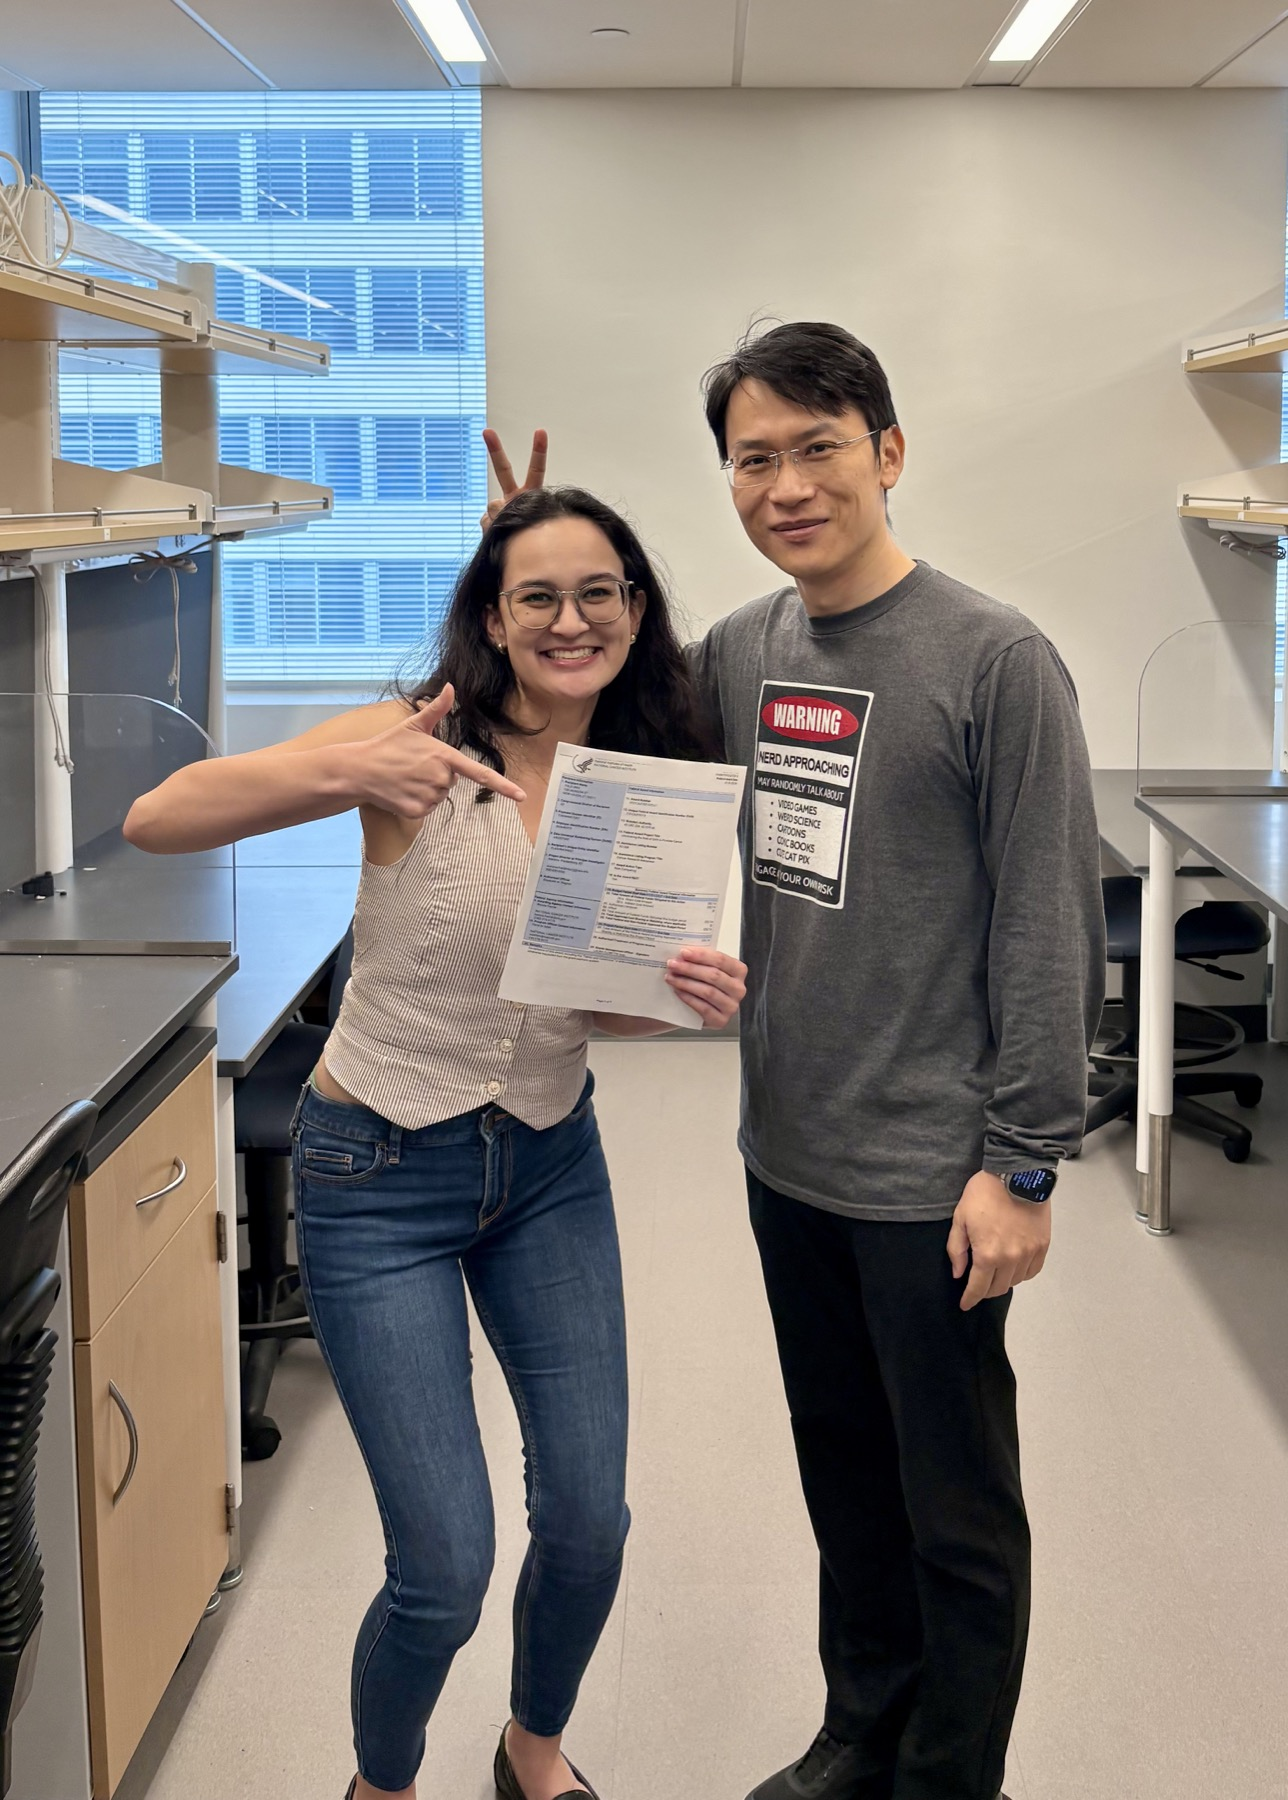
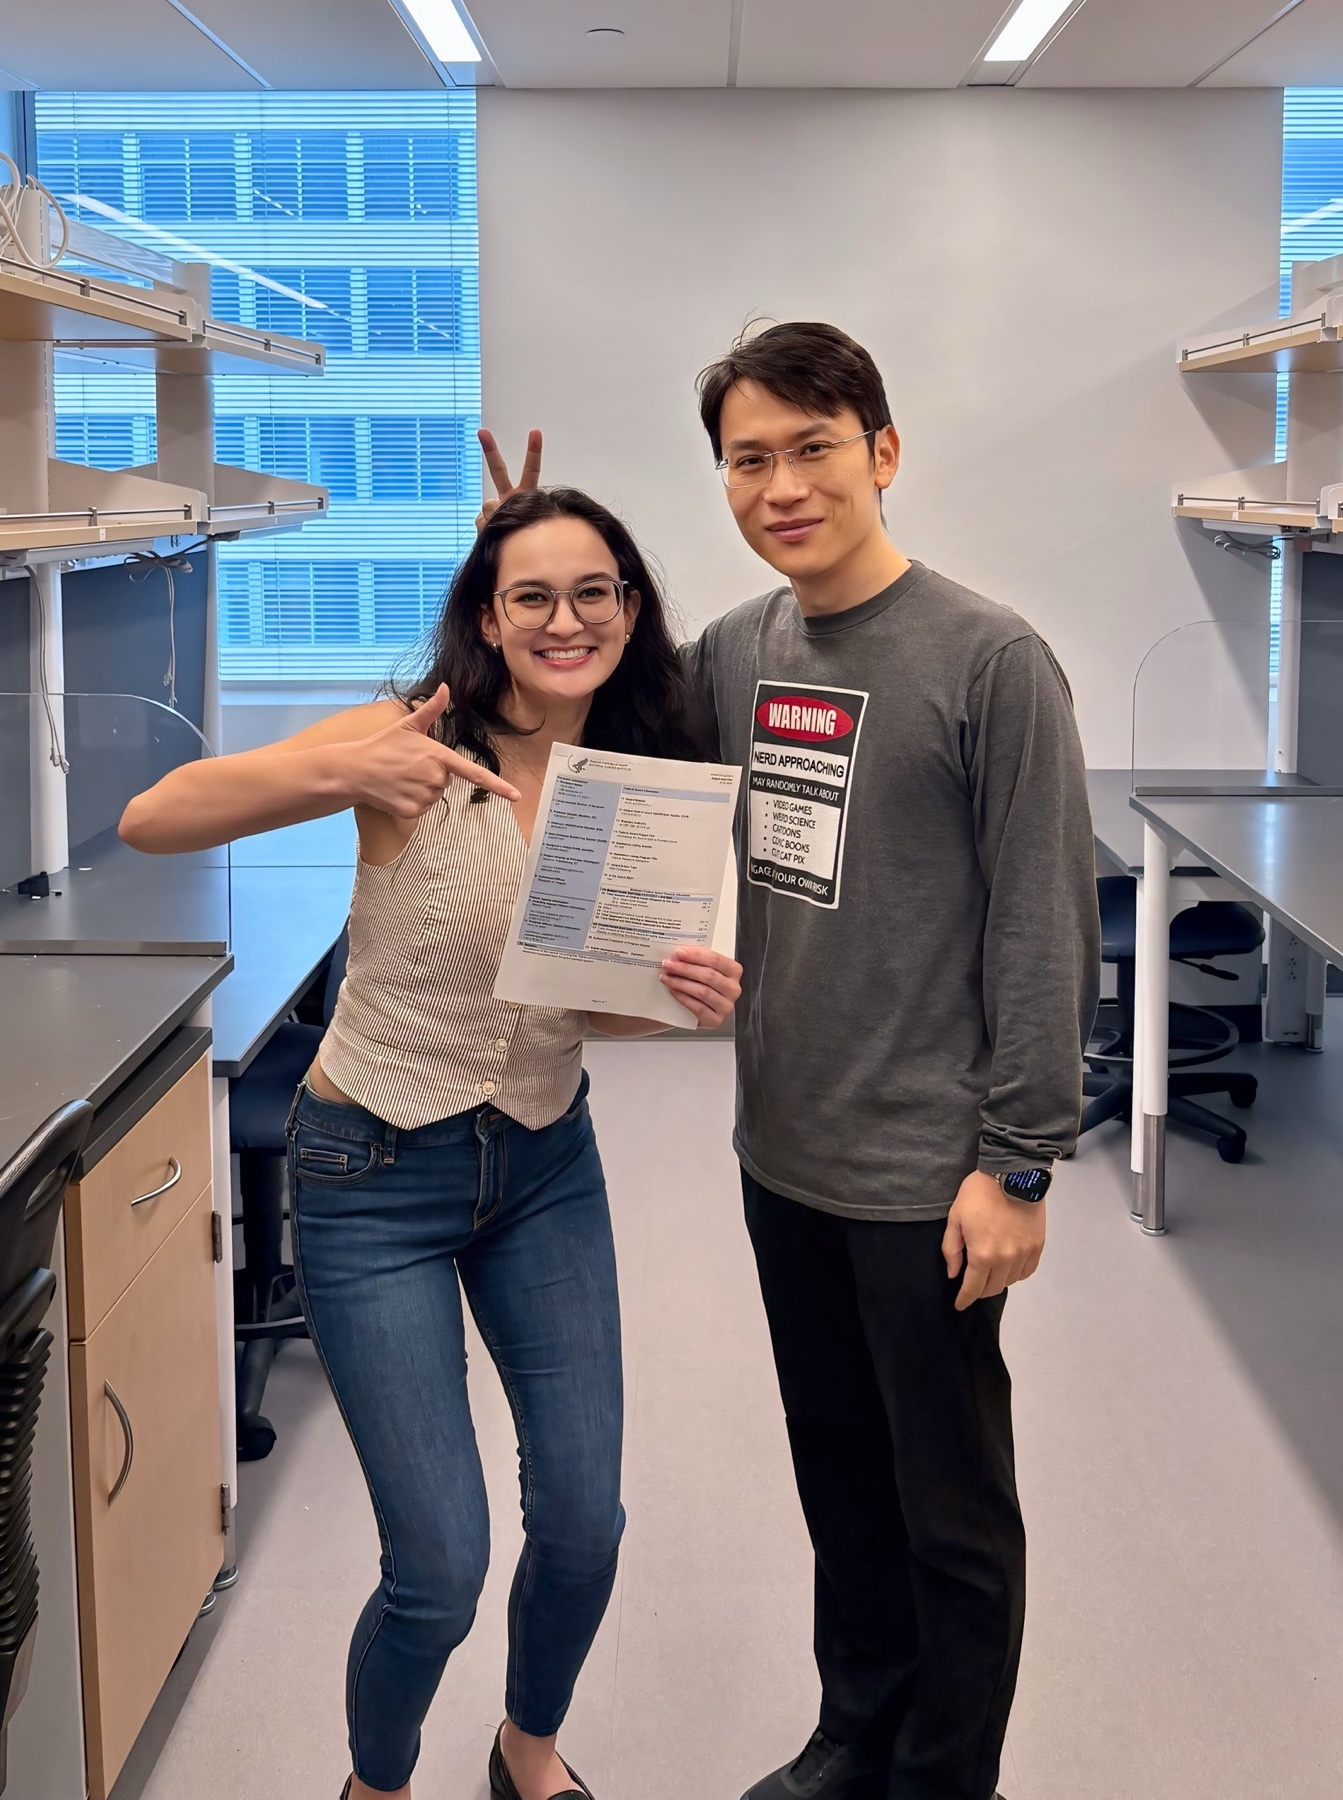
Add Titi farewell and update Melanie photo

diff --git a/gallery-data.js b/gallery-data.js
@@ -1,6 +1,21 @@
 window.MULAB_GALLERY = {
   "timeline": [
     {
+      "id": "local_event_2026_011",
+      "src": "Gallery/date_pending_existing/titi-last-day-august-2026.jpg",
+      "date": "August 2026",
+      "sortDate": "2026-08-01",
+      "year": "2026",
+      "precision": "month",
+      "title": "Titi’s Last Day",
+      "caption": "Titi’s last day in the lab. Thank you for joining us this summer!",
+      "source": "Mu Lab",
+      "descriptionSource": "Local",
+      "sourceUrl": "",
+      "width": 1350,
+      "height": 1800
+    },
+    {
       "id": "local_event_2026_010",
       "src": "Gallery/date_pending_existing/titi-and-amanda-august-2026.jpg",
       "date": "August 2026",
@@ -17,7 +32,7 @@ window.MULAB_GALLERY = {
     },
     {
       "id": "local_event_2026_009",
-      "src": "Gallery/date_pending_existing/melanie-nci-f31-award-august-2026.jpg",
+      "src": "Gallery/date_pending_existing/melanie-nci-f31-award-august-2026.jpg?v=20260813-new-edit",
       "date": "August 2026",
       "sortDate": "2026-08-01",
       "year": "2026",
@@ -27,7 +42,7 @@ window.MULAB_GALLERY = {
       "source": "Mu Lab",
       "descriptionSource": "Local",
       "sourceUrl": "",
-      "width": 1288,
+      "width": 1343,
       "height": 1800
     },
     {

diff --git a/gallery.html b/gallery.html
@@ -14,8 +14,8 @@
 <link href="https://fonts.googleapis.com/css2?family=Fraunces:ital,opsz,wght@0,9..144,300..600;1,9..144,300..500&family=Inter:wght@300;400;500&family=Space+Mono:wght@400;700&display=swap" rel="stylesheet">
 <link rel="stylesheet" href="styles.css">
 <link rel="stylesheet" href="gallery-v4.css">
-<script src="gallery-data.js?v=20260813-titi-amanda" defer></script>
-<script src="gallery-albums.js" defer></script>
+<script src="gallery-data.js?v=20260813-titi-last-day-melanie" defer></script>
+<script src="gallery-albums.js?v=20260813-titi-last-day" defer></script>
 <script src="gallery-v4.js" defer></script>
 <script src="script.js" defer></script>
 </head>

diff --git a/gallery-albums.js b/gallery-albums.js
@@ -4,7 +4,7 @@ window.MULAB_GALLERY = window.MULAB_GALLERY || {};
 window.MULAB_GALLERY.albums = [
  {
   "id": "yale-symposium-2026",
-  "pos": 3,
+  "pos": 7,
   "title": "Yale Prostate Cancer Symposium",
   "date": "June 3, 2026",
   "year": "2026",
